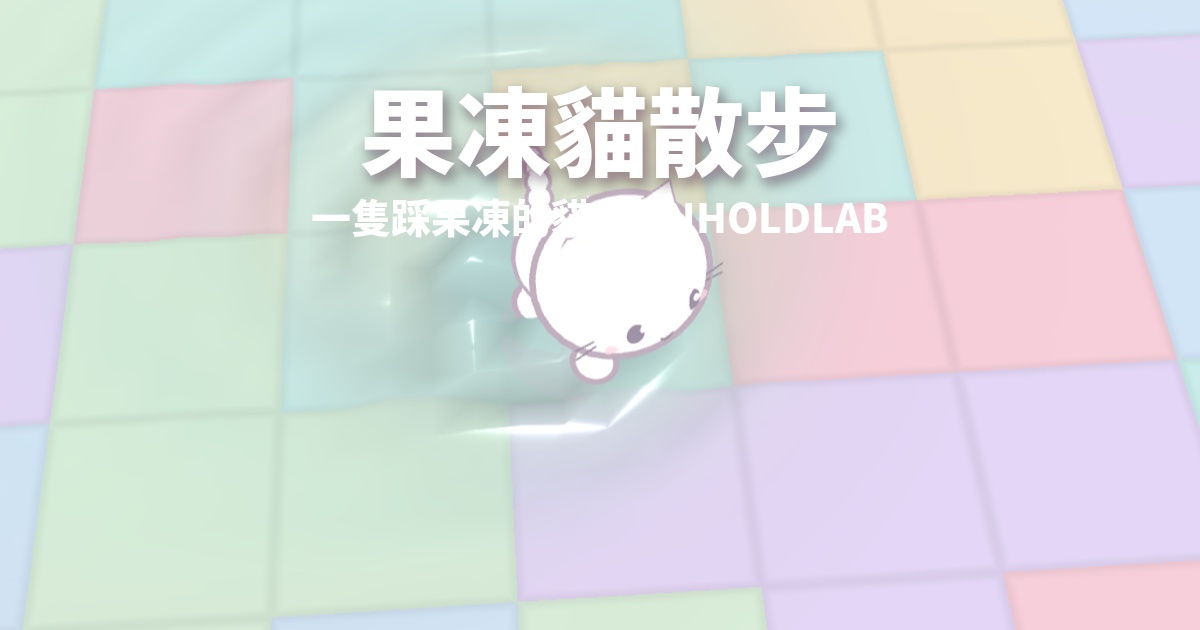
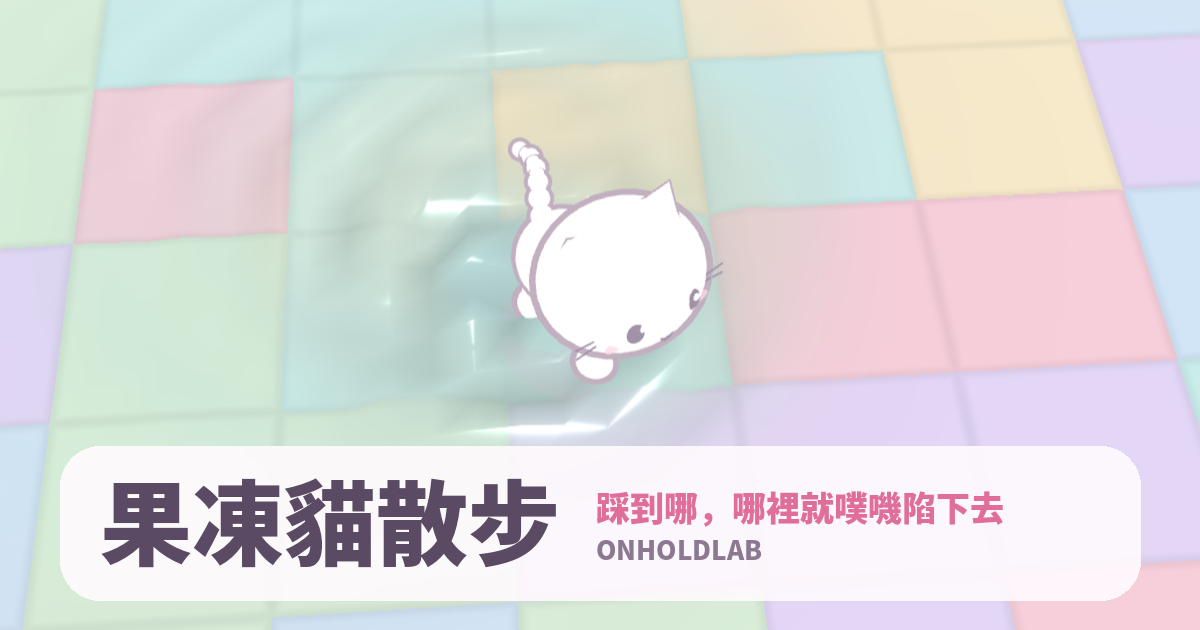
Keep HUD on one line (no jumping as numbers grow); clearer cover text
Claude-Session: https://claude.ai/code/session_01CzYSXy7b4PmADMQ7R6Y71T

Changed region(s): [[0.0308, 0.6937, 0.9558, 0.9651], [0.2467, 0.1206, 0.74, 0.3921]]

diff --git a/index.html b/index.html
@@ -1,4 +1,4 @@
-<!doctype html><html lang="zh-Hant"><head><meta charset="utf-8"><meta name="viewport" content="width=device-width,initial-scale=1,viewport-fit=cover"><meta property="og:title" content="果凍貓散步"><meta property="og:image" content="https://onholdlab.github.io/walking-cat/cover.png"><meta property="og:image:width" content="1200"><meta property="og:image:height" content="630"><meta name="twitter:card" content="summary_large_image"><meta name="twitter:title" content="果凍貓散步"><meta name="twitter:image" content="https://onholdlab.github.io/walking-cat/cover.png"><meta property="og:description" content="一隻踩果凍的貓。牠走到哪，地板就噗嘰陷下去。"><style>:root{padding-top:env(safe-area-inset-top,0px);padding-bottom:env(safe-area-inset-bottom,0px)}img{max-width:100%}[hidden]{display:none!important}</style><script data-goatcounter="https://onholdlab.goatcounter.com/count" async src="//gc.zgo.at/count.js"></script></head><body>
+<!doctype html><html lang="zh-Hant"><head><meta charset="utf-8"><meta name="viewport" content="width=device-width,initial-scale=1,viewport-fit=cover"><meta property="og:title" content="果凍貓散步"><meta property="og:image" content="https://onholdlab.github.io/walking-cat/cover.png?v=2"><meta property="og:image:width" content="1200"><meta property="og:image:height" content="630"><meta name="twitter:card" content="summary_large_image"><meta name="twitter:title" content="果凍貓散步"><meta name="twitter:image" content="https://onholdlab.github.io/walking-cat/cover.png?v=2"><meta property="og:description" content="一隻踩果凍的貓。牠走到哪，地板就噗嘰陷下去。"><style>:root{padding-top:env(safe-area-inset-top,0px);padding-bottom:env(safe-area-inset-bottom,0px)}img{max-width:100%}[hidden]{display:none!important}</style><script data-goatcounter="https://onholdlab.goatcounter.com/count" async src="//gc.zgo.at/count.js"></script></head><body>
 <title>果凍貓散步</title>
 <meta name="claude:viewport-fit-sides" content="cover">
 <style>
@@ -26,7 +26,12 @@ button.chip{border:0;color:var(--ink);font:inherit;cursor:pointer}
 .start{position:fixed;inset:0;display:grid;place-items:center;background:rgba(246,238,244,.55);backdrop-filter:blur(3px);z-index:5}
 .start button{border:0;background:#fff;color:var(--ink);font:500 18px var(--f);padding:16px 30px;border-radius:999px;box-shadow:0 8px 30px rgba(200,140,180,.3);cursor:pointer}
 .tip{position:fixed;bottom:calc(46px + env(safe-area-inset-bottom,0px));left:130px;right:130px;text-align:center;font-size:12px;opacity:.65;pointer-events:none}
-.grp{display:flex;gap:8px;align-items:center;flex-wrap:wrap}
+.grp{display:flex;gap:6px;align-items:center;flex-wrap:nowrap;min-width:0}
+.chip{white-space:nowrap;flex:none}
+.chip b{display:inline-block;text-align:right;font-variant-numeric:tabular-nums}
+#n{min-width:3ch}#tot{min-width:4ch}
+#snd{width:40px;height:38px;padding:0;display:grid;place-items:center;font-size:17px}
+@media (max-width:420px){.chip{padding:8px 11px;font-size:13px}}
 .gold{background:linear-gradient(135deg,#fff6cf,#ffd978);color:#8a5a00}.gold b{color:#b57300}
 #stepBtn{cursor:pointer}#stepBtn:focus-visible,.sbtn:focus-visible,#sclose:focus-visible{outline:3px solid #f3a6c4}
 .sheet{position:fixed;inset:0;z-index:9;display:grid;place-items:center;background:rgba(107,90,115,.38);backdrop-filter:blur(4px);padding:max(16px,env(safe-area-inset-top,0px)) max(16px,env(safe-area-inset-right,0px)) max(16px,env(safe-area-inset-bottom,0px)) max(16px,env(safe-area-inset-left,0px))}
@@ -44,7 +49,7 @@ button.chip{border:0;color:var(--ink);font:inherit;cursor:pointer}
 @media (prefers-reduced-motion:reduce){.pad{transition:none}}
 </style>
 <link rel="stylesheet" href="https://fonts.googleapis.com/css2?family=Zen+Maru+Gothic:wght@500&display=swap">
-<div class="hud"><div class="grp"><button class="chip" id="stepBtn" aria-label="分享今日貓貓步數">今日 <b id="n">0</b> 步 ⇪</button><span class="chip gold">累積踩踩 <b id="tot">0</b></span></div><button class="chip" id="snd">🔊 聲音開</button></div>
+<div class="hud"><div class="grp"><button class="chip" id="stepBtn" aria-label="分享今日貓貓步數">今日 <b id="n">0</b> 步 ⇪</button><span class="chip gold">累積踩踩 <b id="tot">0</b></span></div><button class="chip" id="snd" aria-label="聲音開">🔊</button></div>
 <button class="pad" id="jump" aria-label="跳躍"><svg viewBox="0 0 40 40" fill="#fff"><ellipse cx="20" cy="26" rx="9" ry="7.5"/><circle cx="9" cy="16" r="4"/><circle cx="16" cy="10" r="4"/><circle cx="24" cy="10" r="4"/><circle cx="31" cy="16" r="4"/></svg><span>跳跳</span></button>
 <button class="pad" id="run" aria-label="奔跑（按住）"><svg viewBox="0 0 40 40" fill="none" stroke="#fff" stroke-width="4" stroke-linecap="round" stroke-linejoin="round"><path d="M8 12l9 8-9 8"/><path d="M21 12l9 8-9 8"/></svg><span>衝衝</span></button>
 <div class="tip">點地面讓牠走過去</div>
@@ -171,7 +176,7 @@ function slimeStep(pan,big){const t=AC.currentTime,src=AC.createBufferSource(),g
  p.pan.value=pan;src.connect(g).connect(p).connect(AC.destination);src.start(t);src.stop(t+d+.02)}
 
 let restLong=false;
-document.getElementById('snd').onclick=e=>{on=!on;e.currentTarget.textContent=on?'🔊 聲音開':'🔈 聲音關'};
+document.getElementById('snd').onclick=e=>{on=!on;e.currentTarget.textContent=on?'🔊':'🔈';e.currentTarget.setAttribute('aria-label',on?'聲音開':'聲音關')};
 function splash(x,z,pan,amp=1,quiet=false){rp[ri].set(x,z,G.uniforms.t.value,amp*(.8+Math.random()*.35));rc[ri].set(...cellCol(x,z));ri=(ri+1)%MAX;if(!quiet){squish(pan,amp>1.2?1:0);addStep()}}
 
 // 防止 Threads / IG 內建瀏覽器上下拖動把頁面拉走（分享卡片內仍可捲動）
